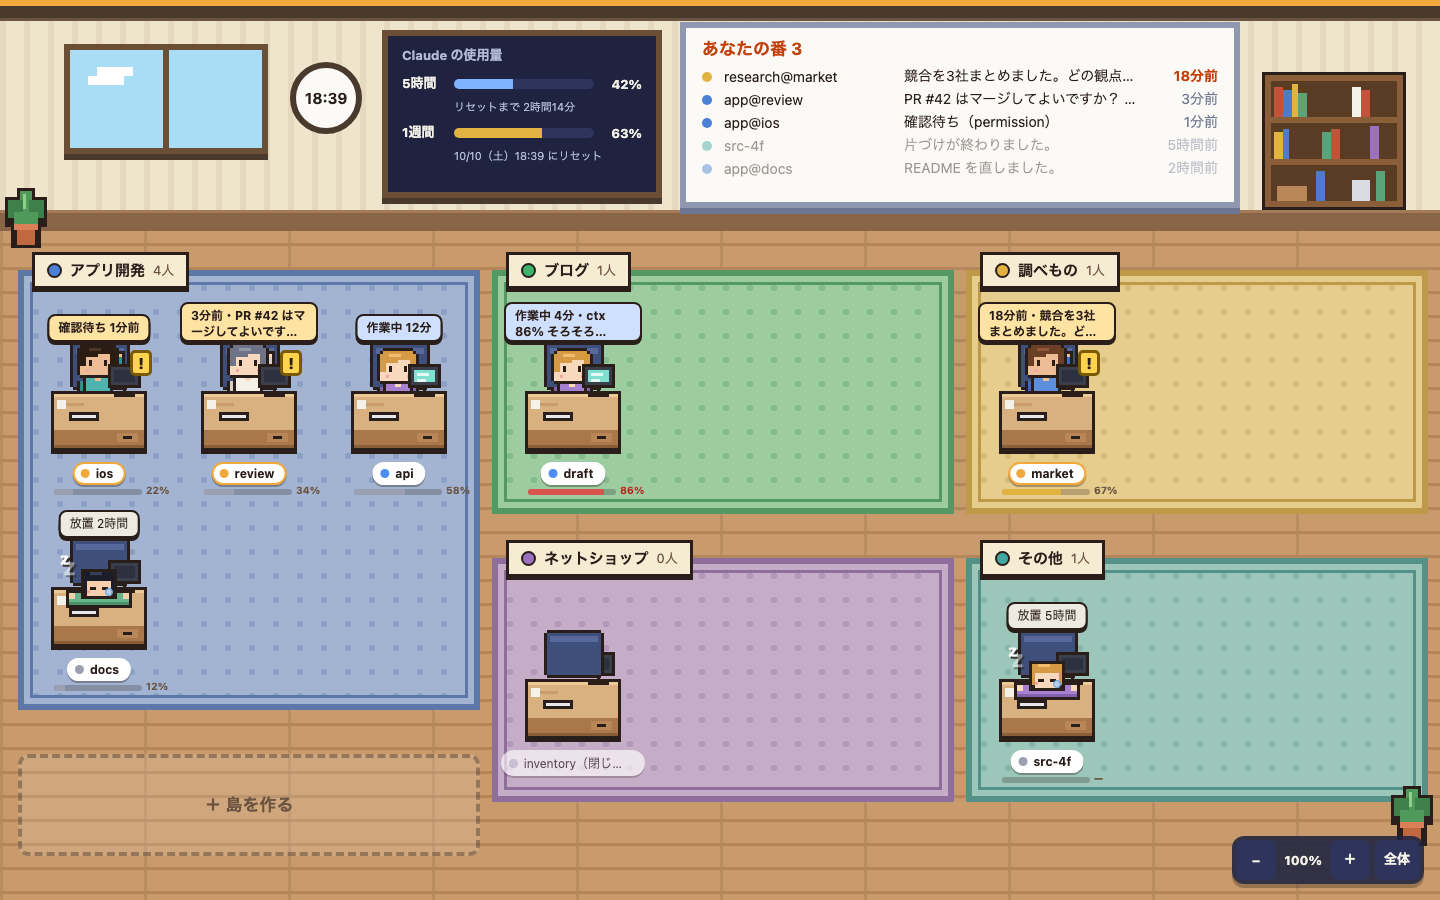
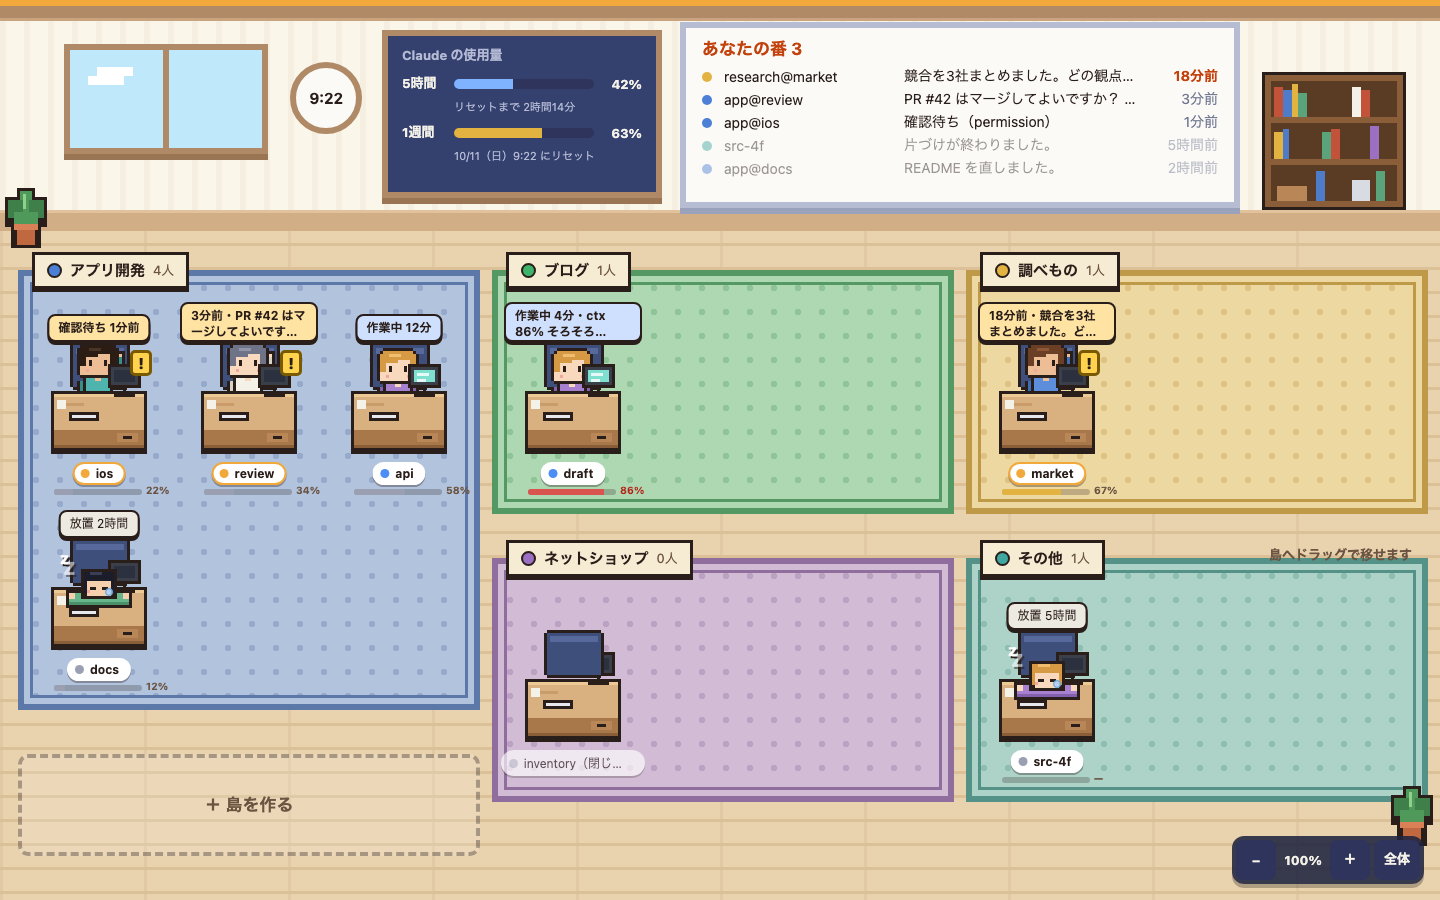
Brighten the office: light oak floor, cream walls, softer dark mode (#3)
- Floor, walls, trim, window frame, clock rim, and the usage board move to lighter tones
- Island rugs are mixed slightly lighter
- Dark mode dims the room to 80% instead of 55%, so labels like the gauge percentages stay readable
- Retake docs/screenshot.png

diff --git a/index.html b/index.html
@@ -10,7 +10,7 @@
 :root{
   --ink:#2A1E1A; --night:#1F2340; --night2:#2E345C; --paper:#FBFAF6; --mute:#B4BAD4;
   --busy:#4C8DF6; --turn:#F2A93B; --sleep:#9AA0B2; --gone:#C9CCD6;
-  --wall:#EFE4CC; --floor:#C99A6B; --floorLine:#B4865A;
+  --wall:#FBF6EA; --floor:#E9D2AE; --floorLine:#DCC198; --wood:#B08A66; --woodDark:#9A7553;
 }
 body{margin:0;background:var(--night);font-family:-apple-system,BlinkMacSystemFont,'Hiragino Sans','Hiragino Kaku Gothic ProN','Noto Sans JP',sans-serif;color:var(--ink)}
 #stage{overflow:hidden}
@@ -25,27 +25,27 @@ body{margin:0;background:var(--night);font-family:-apple-system,BlinkMacSystemFo
 #strip.on{display:block}
 
 /* 部屋（夜は暗くして、人と名札だけを明るいまま残す） */
-.floor{left:0;width:100%;background-color:var(--floor);background-image:repeating-linear-gradient(0deg,var(--floorLine) 0 3px,transparent 3px 24px),repeating-linear-gradient(90deg,rgba(60,36,20,.10) 0 3px,transparent 3px 144px)}
-.wall{left:0;top:0;width:100%;height:228px;background-color:var(--wall);background-image:repeating-linear-gradient(90deg,rgba(150,120,80,.10) 0 6px,transparent 6px 24px)}
-.wall .top{left:0;top:0;width:100%;height:18px;background:#4A3A2E;border-bottom:3px solid #6B5442}
-.wall .base{left:0;top:210px;width:100%;height:18px;background:#8A6446;border-top:3px solid #A57B57}
-.win{top:44px;width:204px;height:110px;background:#6B4E36;padding:6px;box-sizing:border-box;display:grid;grid-template-columns:1fr 1fr;gap:6px;box-shadow:0 6px 0 #4A3A2E}
-.win i{background:#A9DCF5;position:relative}
+.floor{left:0;width:100%;background-color:var(--floor);background-image:repeating-linear-gradient(0deg,var(--floorLine) 0 3px,transparent 3px 24px),repeating-linear-gradient(90deg,rgba(120,80,40,.07) 0 3px,transparent 3px 144px)}
+.wall{left:0;top:0;width:100%;height:228px;background-color:var(--wall);background-image:repeating-linear-gradient(90deg,rgba(150,120,80,.06) 0 6px,transparent 6px 24px)}
+.wall .top{left:0;top:0;width:100%;height:18px;background:var(--wood);border-bottom:3px solid #C9A47E}
+.wall .base{left:0;top:210px;width:100%;height:18px;background:#D2AE86;border-top:3px solid #E2C29C}
+.win{top:44px;width:204px;height:110px;background:var(--wood);padding:6px;box-sizing:border-box;display:grid;grid-template-columns:1fr 1fr;gap:6px;box-shadow:0 6px 0 var(--woodDark)}
+.win i{background:#BFE8FA;position:relative}
 .win i:first-child::after{content:'';position:absolute;left:18px;top:26px;width:36px;height:9px;background:#fff;box-shadow:9px -9px 0 -0px #fff}
-.clock{left:290px;top:62px;width:72px;height:72px;border-radius:50%;background:var(--paper);border:6px solid #4A3A2E;box-sizing:border-box;display:flex;align-items:center;justify-content:center;font-size:15px;font-weight:700}
+.clock{left:290px;top:62px;width:72px;height:72px;border-radius:50%;background:var(--paper);border:6px solid var(--wood);box-sizing:border-box;display:flex;align-items:center;justify-content:center;font-size:15px;font-weight:700}
 .rug{box-sizing:border-box;border:6px solid}
 .sign{display:flex;align-items:center;gap:8px;padding:4px 12px;background:#F6EBD3;border:3px solid var(--ink);box-shadow:0 3px 0 var(--ink);font-size:15px;font-weight:700;z-index:7;white-space:nowrap}
 .sign b{width:11px;height:11px;border-radius:50%;border:2px solid var(--ink);display:inline-block}
 .sign small{font-weight:400;color:#6B5442;font-size:13px}
 .empty{color:#6B5442;font-size:14px}
 @media (prefers-color-scheme: dark){
-  .scenery{filter:brightness(.55) saturate(.85)}
+  .scenery{filter:brightness(.8) saturate(.95)}
   .lamp{display:block!important}
 }
 .lamp{display:none;left:-20px;top:20px;width:190px;height:150px;border-radius:50%;background:radial-gradient(rgba(255,214,140,.45),rgba(255,214,140,0) 70%);pointer-events:none;z-index:1}
 
 /* 使用量の掲示板（5時間・1週間の枠） */
-.usage{left:382px;top:30px;width:280px;height:168px;box-sizing:border-box;padding:10px 14px;background:var(--night);border:6px solid #6B4E36;box-shadow:0 6px 0 #4A3A2E;color:#F4F1E8;display:flex;flex-direction:column;gap:8px}
+.usage{left:382px;top:30px;width:280px;height:168px;box-sizing:border-box;padding:10px 14px;background:#34416F;border:6px solid var(--wood);box-shadow:0 6px 0 var(--woodDark);color:#F4F1E8;display:flex;flex-direction:column;gap:8px}
 .usage h2{margin:0;font-size:13px;color:var(--mute);font-weight:700}
 .usage .m{display:grid;grid-template-columns:44px minmax(0,1fr) 40px;gap:8px;align-items:center;font-size:13px;font-weight:700}
 .usage .bar{height:10px;border-radius:5px;background:var(--night2);overflow:hidden}
@@ -54,7 +54,7 @@ body{margin:0;background:var(--night);font-family:-apple-system,BlinkMacSystemFo
 .usage .sub{grid-column:2 / 4;font-size:11px;font-weight:400;color:var(--mute);margin-top:-4px}
 .usage .none{font-size:12px;color:var(--mute)}
 /* ホワイトボード */
-.board{left:680px;top:22px;width:560px;height:186px;background:var(--paper);border:6px solid #9097B0;box-sizing:border-box;padding:8px 16px;display:flex;flex-direction:column;gap:2px;box-shadow:0 6px 0 #6E7590;overflow:hidden}
+.board{left:680px;top:22px;width:560px;height:186px;background:var(--paper);border:6px solid #B6BCD2;box-sizing:border-box;padding:8px 16px;display:flex;flex-direction:column;gap:2px;box-shadow:0 6px 0 #9AA1BB;overflow:hidden}
 .board h2{margin:0 0 2px;font-size:17px;color:#C2410C}
 .board .row{display:grid;grid-template-columns:12px 170px minmax(0,1fr) 66px;gap:10px;align-items:center;font-size:14px}
 .board .row span{overflow:hidden;white-space:nowrap;text-overflow:ellipsis}
@@ -334,7 +334,7 @@ function mix(hex, to, t) {
 function setIslands(list) {
   islandsSig = JSON.stringify(list);
   rawIslands = list;
-  ISLANDS = [...list.map(i => ({ ...i, color: i.hex })), OTHER].map(i => ({ ...i, label: i.name, rug: mix(i.color, '#E8E0CC', 0.55), edge: mix(i.color, '#7A6A55', 0.35) }));
+  ISLANDS = [...list.map(i => ({ ...i, color: i.hex })), OTHER].map(i => ({ ...i, label: i.name, rug: mix(i.color, '#F6F0E2', 0.6), edge: mix(i.color, '#7A6A55', 0.35) }));
 }
 const LOOKS = [
   { hair: '#2B1D14', hairHi: '#4A3526', skin: '#F6CFAE', shirt: '#E9874E', shirtDk: '#C76A35', pants: '#3B3F58' },
@@ -567,7 +567,7 @@ function buildOnboarding(roomW, islandsBottom) {
   // 例の島：作った島があれば最初の島、なければ「アプリ開発（app）」
   const first = ISLANDS.find(i => i.id !== OTHER.id);
   const ex = first ? { id: first.prefixes[0] || first.id, name: first.label, color: first.color, rug: first.rug, edge: first.edge }
-                   : { id: 'app', name: 'アプリ開発', color: '#4C7FD6', rug: '#AFC0E6', edge: '#7E92C4' };
+                   : { id: 'app', name: 'アプリ開発', color: '#4C7FD6', rug: '#B2C3DD', edge: '#7E92C4' };
   const id = esc(ex.id), w = Math.min(1300, roomW - 80), top = islandsBottom + 16; // 島の下に置く（人を隠さない）
   const roles = [['review', 'レビュー係：PR を見る', '#2B1D14', '#E9874E', '#F2A93B'], ['api', 'API 係：サーバーを作る', '#6B3E26', '#5C8EDB', '#4C8DF6'], ['docs', '説明書係：README を書く', '#D69A45', '#A781D0', '#4C8DF6']];
   // 「claude -n」「app」「@」「review」の幅から、線と説明の位置を決める（等幅 30px ＝ 1文字 18px）
